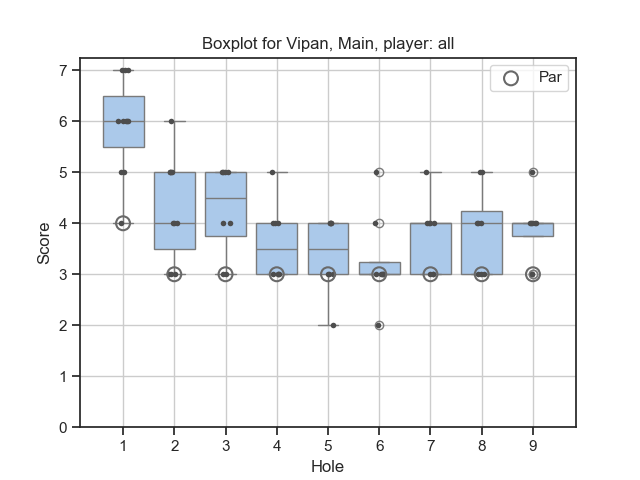
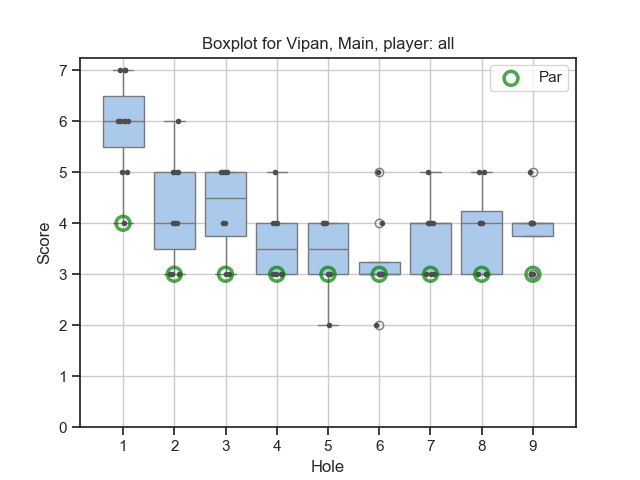
Plot par in green

diff --git a/course_analysis.py b/course_analysis.py
@@ -101,7 +101,7 @@ def graph_average(rounds, course_name, layout_name, player_name='all'):
     sns.stripplot(data=df, x="Hole", y="Score", size=4, color=".3")
     
     # Plot par
-    sns.scatterplot(x="Hole", y="Score", data=par_df, label="Par", zorder=5, s=100, linewidth=1.5, facecolors='none', edgecolor="dimgray")
+    sns.scatterplot(x="Hole", y="Score", data=par_df, label="Par", zorder=5, s=100, linewidth=2.5, facecolors='none', edgecolor="green", alpha=0.7)
 
     plt.ylim(bottom=0)
     plt.title(f"Boxplot for {course_name}, {layout_name}, player: {player_name}")
